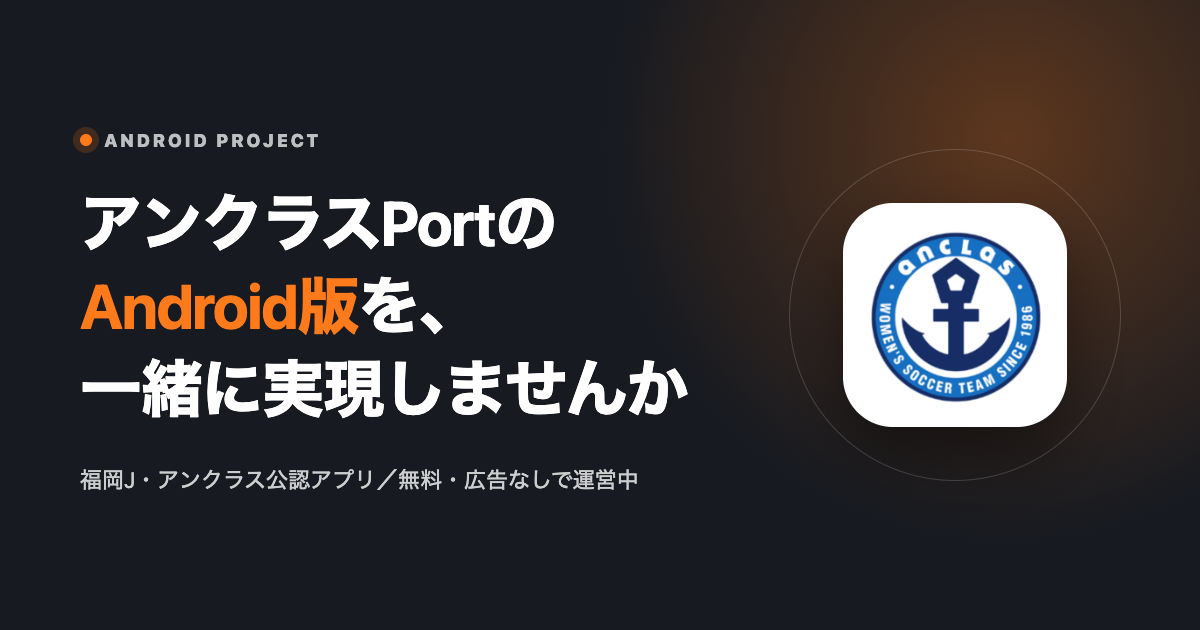
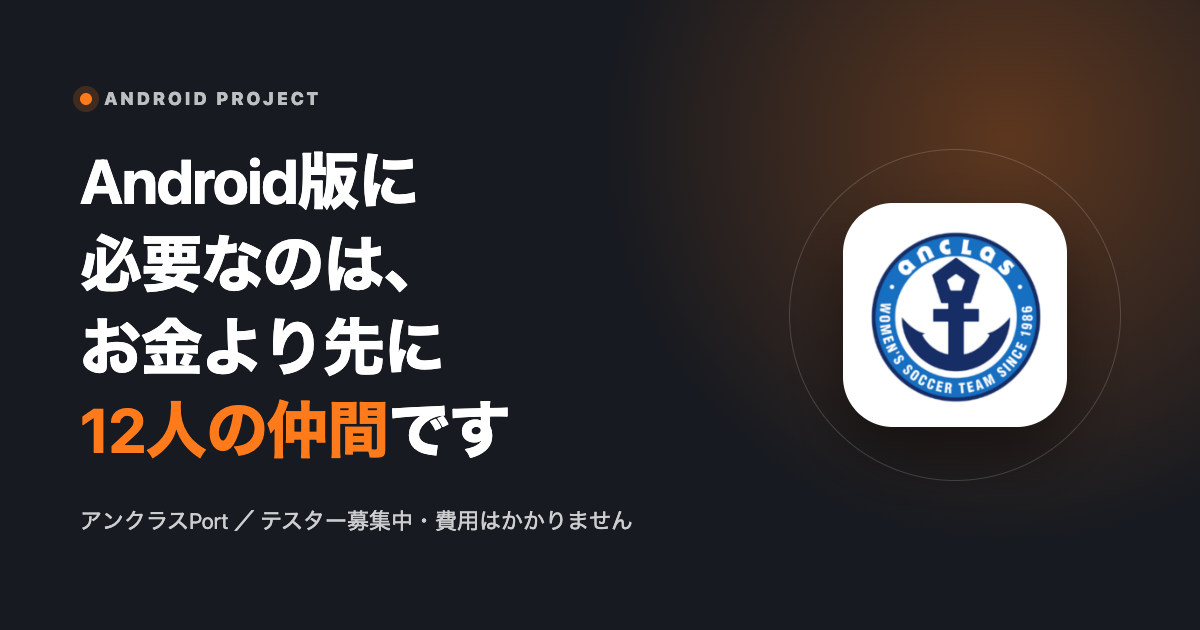
Redraw the share card to match the page
The card still said "let us build the Android version together" while the
page now leads with the twelve testers. The card is the first thing people
see when the link is shared, so it was contradicting the ask before anyone
read a word.

Changed region(s): [[0.0617, 0.1206, 0.5858, 0.7841], [0.0617, 0.8143, 0.5242, 0.8444]]

diff --git a/_deploy-now/og/support.html b/_deploy-now/og/support.html
@@ -21,8 +21,8 @@
 <body>
   <div>
     <p class="kicker"><i></i>ANDROID PROJECT</p>
-    <h1>アンクラスPortの<br><em>Android版</em>を、<br>一緒に実現しませんか</h1>
-    <p class="lead">福岡J・アンクラス公認アプリ／無料・広告なしで運営中</p>
+    <h1>Android版に必要なのは、<br>お金より先に<br><em>12人の仲間</em>です</h1>
+    <p class="lead">アンクラスPort ／ テスター募集中・費用はかかりません</p>
   </div>
   <div class="visual"><img src="/assets/anclas-port-icon.png" alt=""></div>
 </body>
